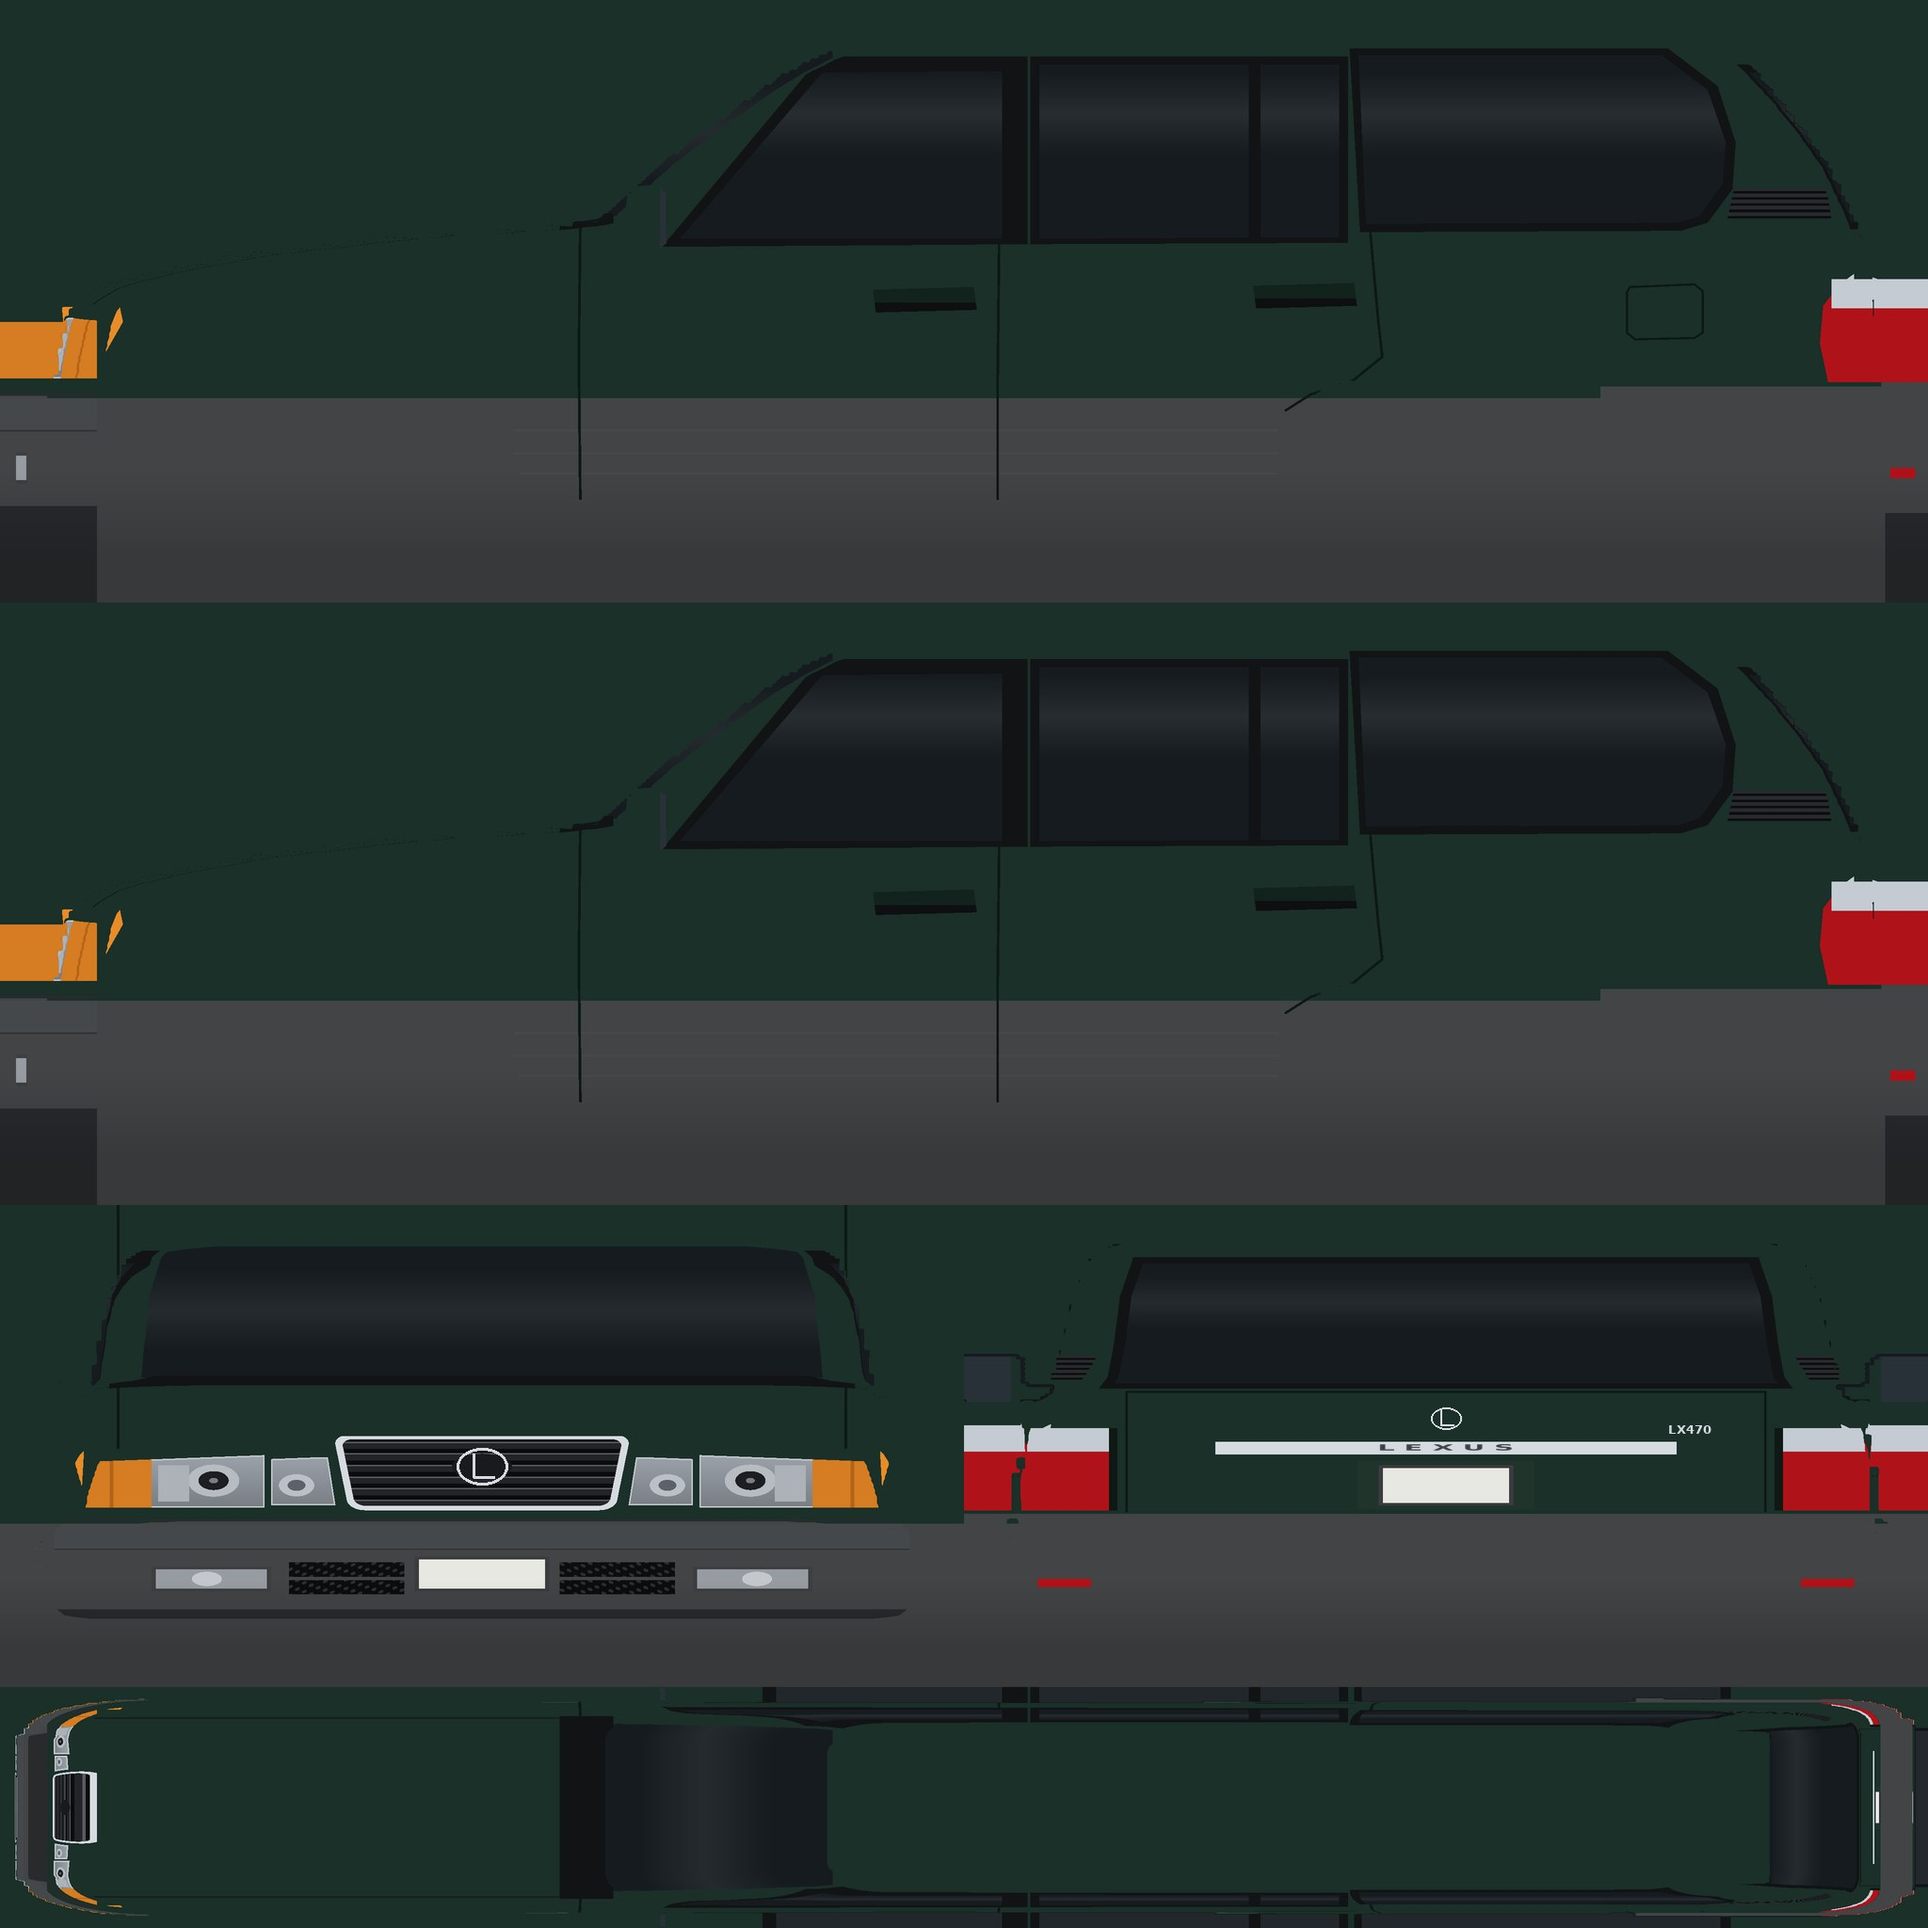
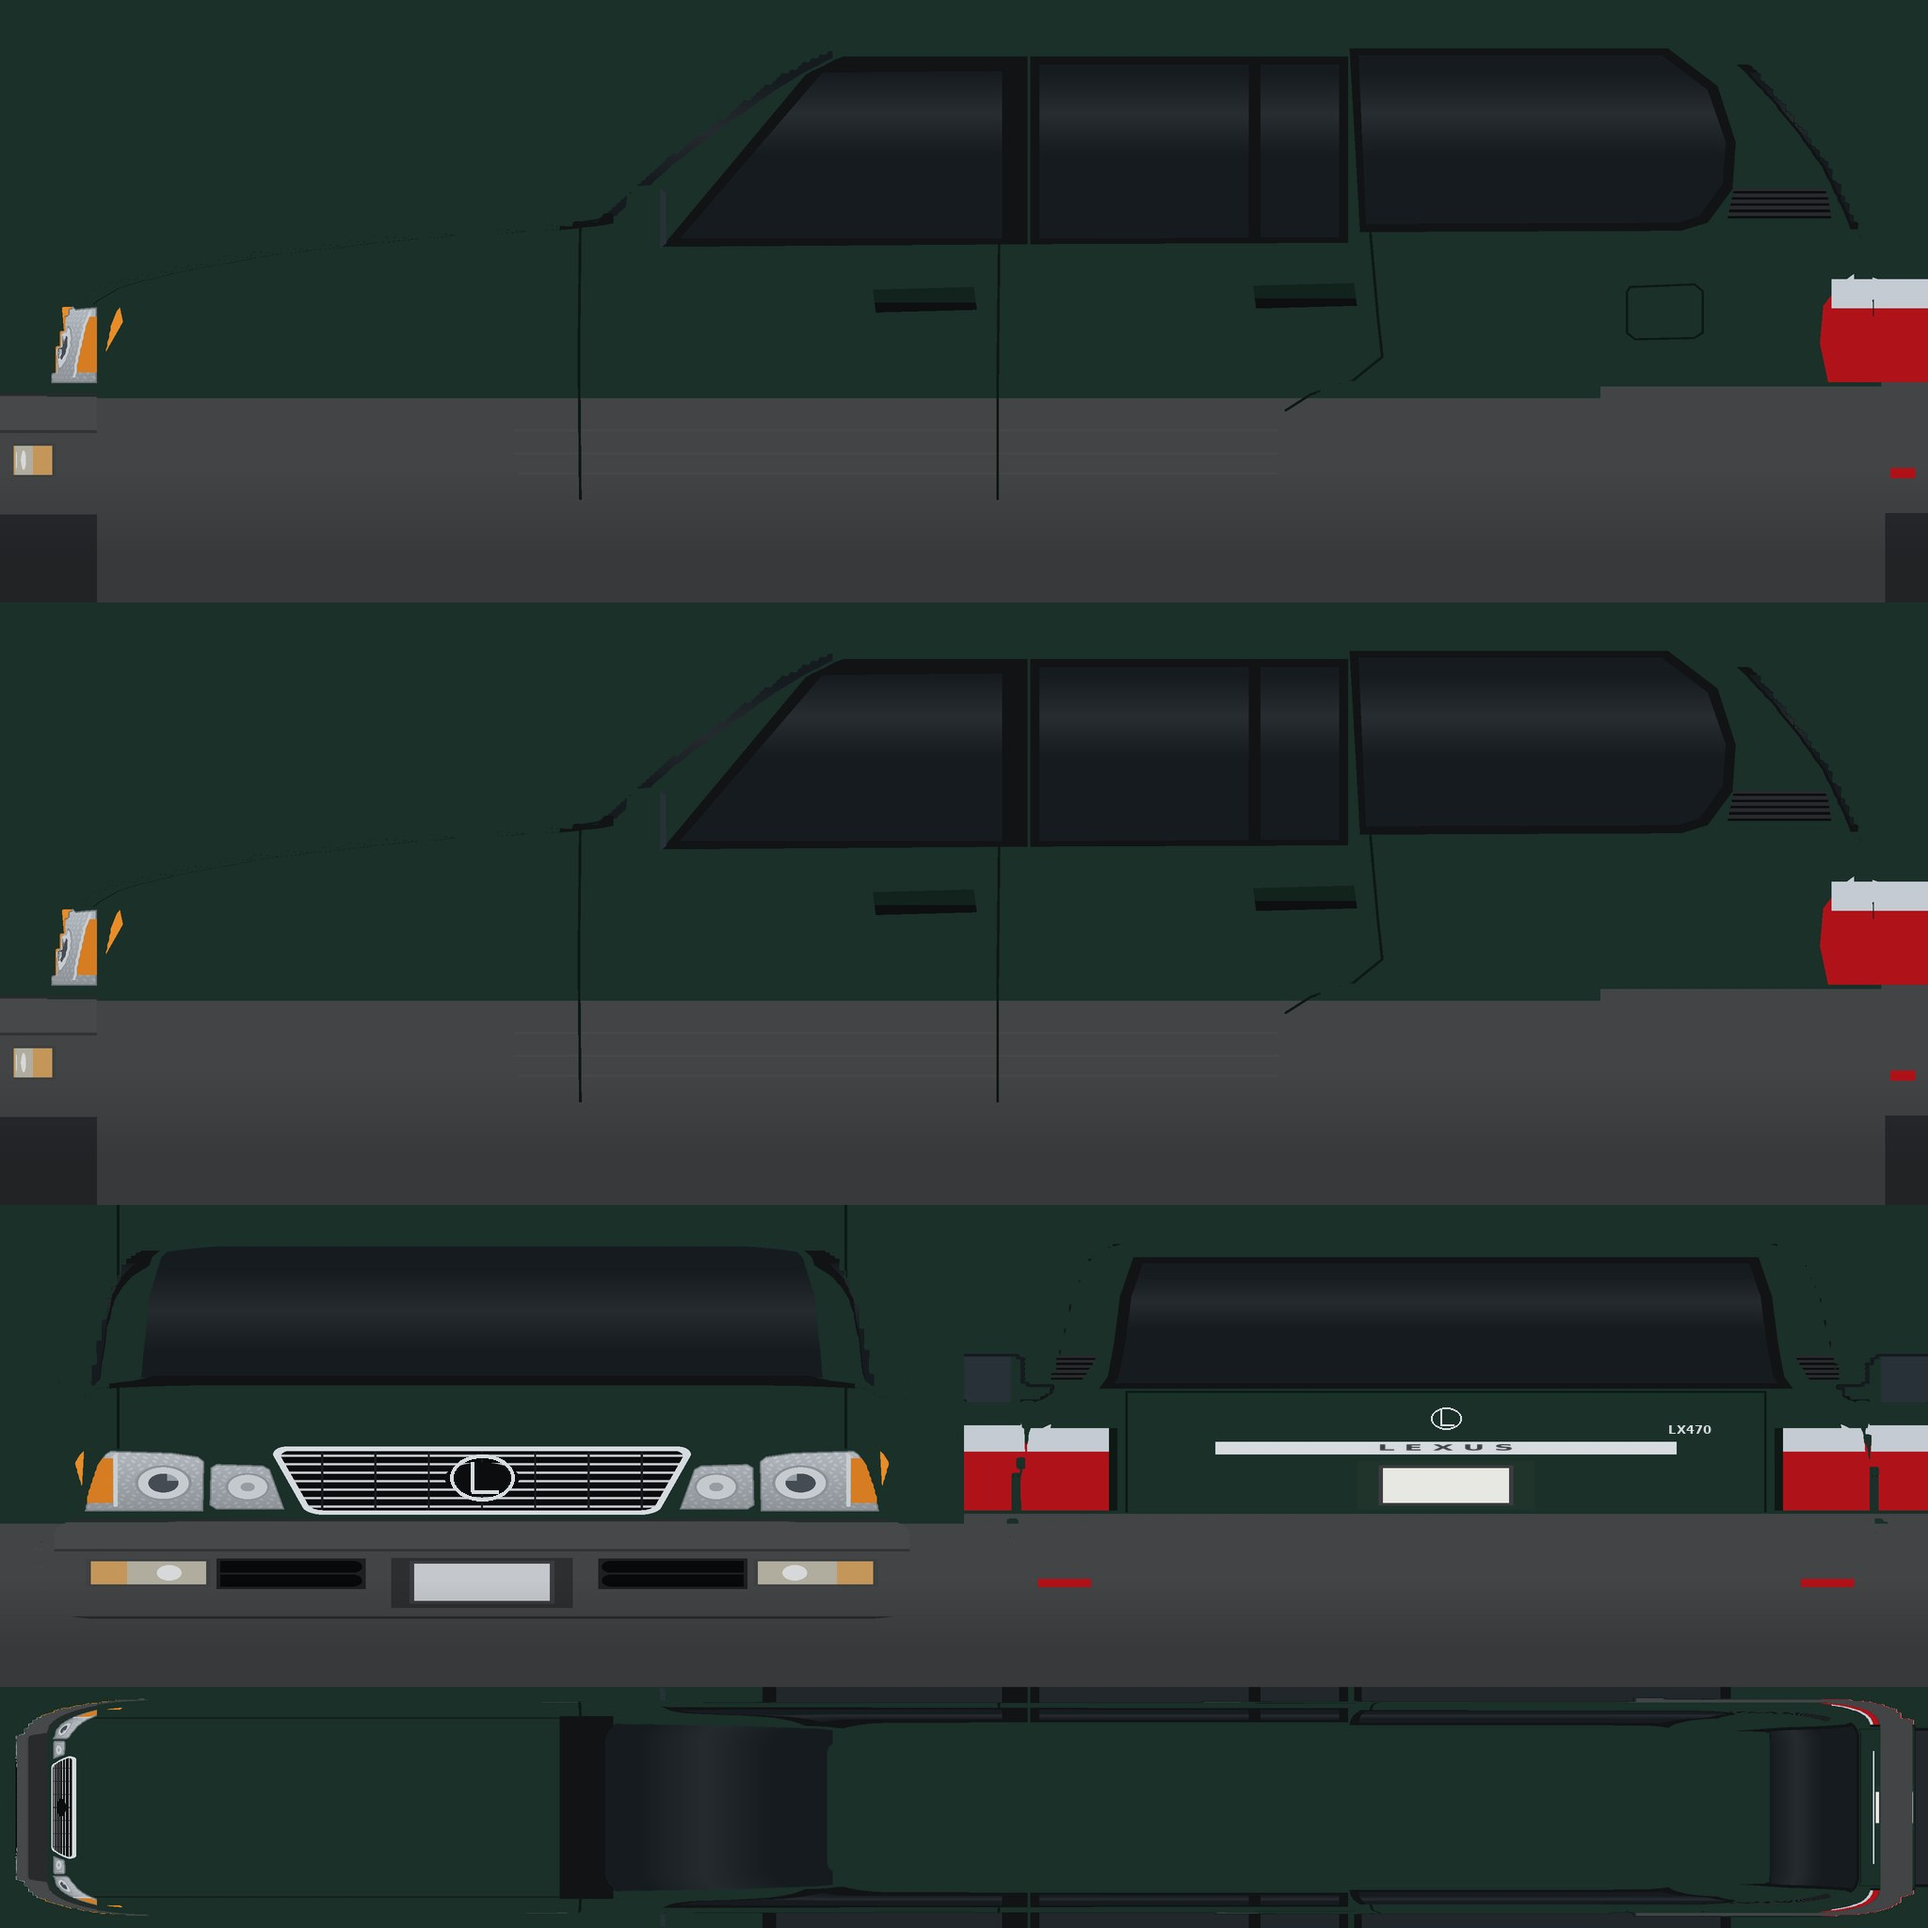
LX 470 front measured from straight-on photos
Wide trapezoid grille (0.96 m across the top, 0.79 m at the bottom) with seven thin chrome
bars and a large L; inner lamps angled along the grille edge, outer lamps with projector
and amber corner; bumper intakes, fogs and plate recess placed from the photo.

Claude-Session: https://claude.ai/code/session_019cbq4o5ypnTkttvXmVwyLx

diff --git a/rider3d.js b/rider3d.js
@@ -27,7 +27,7 @@
   // dims: front/rear axle z, wheel-centre |x| and tyre radius in metres; rim: wheel colour.
   const VEHICLES = {
     "4runner": { ver:"3", fa:1.5165, ra:-1.2775, wx:.80,  r:.4015, rim:0xc9ced4, rimShine:110 },   // 2012 4Runner SR5, BFG KO3 265/70R17
-    "lx470":   { ver:"2", fa:1.6103, ra:-1.2347, wx:.813, r:.3957, rim:0x5c4229, rimShine:12 },    // 1998 LX 470, BFG KO2 275/70R16, bronze wheels
+    "lx470":   { ver:"3", fa:1.6103, ra:-1.2347, wx:.813, r:.3957, rim:0x5c4229, rimShine:12 },    // 1998 LX 470, BFG KO2 275/70R16, bronze wheels
   };
   const vehicleP = {};
   function loadVehicle(name){

diff --git a/scripts/lx470/build.py b/scripts/lx470/build.py
@@ -299,67 +299,83 @@ def shade(x, y, z, fuel_door):
     put(sw & (z < Z_TAIL + 0.15) & inpoly(F["tail_clear"], z, y), LENS, 0.9)
     put(sw & (z > Z_NOSE - 0.2) & inpoly(F["turn"], z, y), AMBER, 0.9)
 
-    # ---- front face (LX 470), laid out from a front three-quarter photo:
-    #      tall chrome-ringed grille with thick black horizontal bars and the Lexus L high in the middle;
-    #      each side a small inner lamp and a big outer lamp (projector + amber corner) that sit lower than the grille top;
-    #      a body-colour strip, then the gray bumper: crease, centre plate, slotted intakes either side, rectangular fog lamps.
+    # ---- front face (LX 470), measured from a straight-on front photo (scaled by the 76 in body width):
+    #      a wide trapezoid grille (much wider at the top) with a chrome ring, seven thin chrome bars on black and a big
+    #      Lexus L; each side a small inner lamp angled along the grille edge and a big outer lamp (projector + amber
+    #      corner); a body-colour strip, then the gray bumper with plate recess, two-slot intakes and rectangular fog lamps.
     face = z > Z_NOSE - 0.10
-    GT, GB = 1.100, 0.828
-    gw = lambda yy: 0.300 + 0.035 * np.clip((yy - GB) / (GT - GB), 0, 1)
-    def rrect_in(halfw, y0, y1, r, pad=0.0):
-        """Inside a rounded rectangle |x| < halfw(y), y0 < y < y1, corner radius r, shrunk by pad."""
-        hw_ = halfw(y) - pad; a0, a1 = y0 + pad, y1 - pad
+    def poly(pts):
+        return face & Path(pts).contains_points(np.stack([ax.ravel(), y.ravel()], -1)).reshape(x.shape)
+    GT, GB = 1.058, 0.812
+    gw = lambda yy: 0.395 + 0.087 * np.clip((yy - GB) / (GT - GB), 0, 1)        # half width: 0.395 at the bottom, 0.482 at the top
+    def trap_in(pad, r_top, r_bot):
+        a0, a1 = GB + pad, GT - pad; hw_ = gw(y) - pad
         inside = (ax < hw_) & (y > a0) & (y < a1)
-        cx = hw_ - r; cyl = a0 + r; cyh = a1 - r
-        corner = (ax > cx) & ((y < cyl) | (y > cyh))
-        dy = np.where(y < cyl, y - cyl, y - cyh)
-        return inside & ~(corner & (np.hypot(ax - cx, dy) > r))
-    g_outer = face & rrect_in(gw, GB, GT, 0.035)
-    g_inner = face & rrect_in(gw, GB, GT, 0.025, pad=0.016)
-    put(g_outer, CHROME, 1.0)
-    put(g_inner, (10, 11, 12), 0.3)
-    bars = g_inner & (np.mod((y - GB - 0.012) / 0.042, 1.0) < 0.62)
-    put(bars, (34, 36, 39), 0.75)
-    put(bars & (np.mod((y - GB - 0.012) / 0.042, 1.0) > 0.50), (88, 92, 98), 0.95)     # lit top edge of each bar
-    # emblem plate behind the L (drawn on top in add_badges)
-    put(face & (np.hypot(ax / 0.068, (y - 0.985) / 0.047) < 1.0), (24, 26, 28), 0.8)
+        cut = np.zeros_like(inside)
+        for cy, r in ((a1 - r_top, r_top), (a0 + r_bot, r_bot)):
+            cx = gw(cy) - pad - r
+            zone = (ax > cx) & ((y > cy) if cy > (a0 + a1) / 2 else (y < cy))
+            cut |= zone & (np.hypot(ax - cx, y - cy) > r)
+        return face & inside & ~cut
+    put(trap_in(0.0, 0.03, 0.055), CHROME, 1.0)
+    g_in = trap_in(0.016, 0.02, 0.04)
+    put(g_in, (10, 11, 12), 0.3)
+    t = np.mod((y - GB - 0.026) / 0.0305, 1.0)
+    bars = g_in & (t < 0.27) & (y > GB + 0.02) & (y < GT - 0.02)
+    put(bars, (176, 181, 187), 1.0)
+    put(bars & (t < 0.1), (222, 226, 230), 1.0)                                    # bright top edge of each bar
+    put(g_in & (np.abs(np.mod(ax + 0.06, 0.12) - 0.06) < 0.0025), (26, 27, 29), 0.3)   # faint vertical dividers
+    put(face & (np.hypot(ax / 0.084, (y - 0.944) / 0.056) < 1.0), (12, 13, 14), 0.4)    # clear the bars behind the emblem
 
-    # lamps: top edge drops toward the outside; both lamps stop below the grille top
-    lamp_top = lambda xx: 1.035 - 0.035 * np.clip((xx - 0.36) / 0.58, 0, 1)
-    LB = 0.838
-    inner_l = face & (ax > gw(y) + 0.022 + 0.03 * (1.04 - y)) & (ax < 0.475) & (y > LB + 0.008) & (y < lamp_top(ax) - 0.015)
-    outer_l = face & (ax > 0.49) & (ax < W - 0.004) & (y > LB) & (y < lamp_top(ax))
+    # inner lamp: rounded quadrilateral whose inner edge runs parallel to the grille side
+    inner_l = poly([(0.445, 0.830), (0.598, 0.830), (0.614, 0.846), (0.612, 0.982), (0.598, 0.995), (0.494, 0.990), (0.478, 0.976)])
+    # outer lamp: taller, top edge rising toward the outside, wraps the corner
+    outer_l = poly([(0.628, 0.824), (0.900, 0.824), (0.918, 0.842), (0.922, 1.030), (0.902, 1.046), (0.700, 1.036), (0.640, 1.022), (0.626, 1.004)])
     for lm in (inner_l, outer_l):
-        put(lm, (150, 157, 164), 0.7)                                                # clear lens over chrome
-        col[lm] *= np.clip(0.80 + 0.25 * (y[lm] - LB) / 0.2, 0.8, 1.05)[:, None]
-        put(lm & ~(np.roll(lm, 3, 0) & np.roll(lm, -3, 0) & np.roll(lm, 3, 1) & np.roll(lm, -3, 1)), (196, 201, 206), 0.9)
-    put(inner_l & (np.hypot(ax - 0.418, y - 0.918) < 0.040), (186, 192, 198), 0.8)   # inner reflector
-    put(inner_l & (np.hypot(ax - 0.418, y - 0.918) < 0.020), (92, 98, 104), 0.8)
-    d = np.hypot(ax - 0.605, y - 0.935)
-    put(outer_l & (d < 0.058), (182, 188, 194), 0.8)                                  # projector bowl
-    put(outer_l & (d < 0.034), (28, 30, 34), 0.9)                                     # projector lens
-    put(outer_l & (d < 0.010), (120, 126, 132), 0.9)
-    put(outer_l & (ax > 0.66) & (ax < 0.73) & (y > 0.86) & (y < 0.99), (172, 178, 184), 0.8)   # low reflector
-    amber = outer_l & (ax > 0.745)
+        put(lm, (168, 174, 180), 0.75)                                             # clear lens over a chrome reflector
+        facets = lm & (np.sin(ax * 260 + np.sin(y * 90) * 2.0) * np.sin(y * 230) > 0.45)
+        col[facets] *= 1.10
+        col[lm] *= np.clip(0.84 + 0.20 * (y[lm] - 0.83) / 0.2, 0.84, 1.04)[:, None]
+        edge = lm & ~(np.roll(lm, 3, 0) & np.roll(lm, -3, 0) & np.roll(lm, 3, 1) & np.roll(lm, -3, 1))
+        put(edge, (112, 117, 122), 0.6)                                            # housing edge
+    d = np.hypot(ax - 0.528, y - 0.912)
+    put(inner_l & (d < 0.050), (196, 201, 206), 0.85)                              # inner lamp reflector
+    put(inner_l & (d < 0.050) & (d > 0.044), (140, 146, 152), 0.85)
+    put(inner_l & (d < 0.016), (150, 156, 162), 0.85)
+    d = np.hypot(ax - 0.718, y - 0.926)
+    put(outer_l & (d < 0.064), (198, 203, 208), 0.85)                              # projector bowl
+    put(outer_l & (d < 0.064) & (d > 0.057), (140, 146, 152), 0.85)
+    put(outer_l & (d < 0.034), (70, 76, 84), 0.95)                                 # projector lens
+    put(outer_l & (d < 0.034) & (ax - 0.718 < -0.008) & (y - 0.926 > 0.008), (150, 158, 166), 0.95)   # glint
+    put(outer_l & (np.abs(ax - 0.826) < 0.005) & (y > 0.84) & (y < 1.03), (200, 205, 210), 0.95)   # divider
+    amber = outer_l & (ax > 0.832) & (y > 0.855) & (y < 1.015)
     put(amber, (214, 124, 34), 0.8)
-    put(amber & (np.abs(ax - 0.835) < 0.004), (180, 100, 25), 0.6)                    # divider in the amber lens
-    # bumper: top edge just under the lamps, a crease, plate in the centre, two-slot intakes, fog lamps
+
+    # bumper
     bump = face & (y < FBUMP_TOP + 0.005)
     put(face & (np.abs(y - FBUMP_TOP) < 0.004), (40, 42, 44), 0.3)
-    put(bump & (np.abs(y - 0.688) < 0.004), (50, 52, 54), 0.3)                         # crease
-    put(bump & (y > 0.69) & (y < 0.78), tuple(int(c * 1.06) for c in CLAD), 0.55)      # crease catches the light
-    plate = bump & (ax < 0.152) & (y > 0.535) & (y < 0.66)
-    put(plate, (232, 232, 226), 0.4)
-    put(plate & ((ax > 0.142) | (y < 0.545) | (y > 0.65)), (60, 60, 64), 0.4)
-    slots = bump & (ax > 0.175) & (ax < 0.435) & (((y > 0.588) & (y < 0.64)) | ((y > 0.525) & (y < 0.575)))
-    put(slots, (12, 13, 14), 0.15)
-    put(slots & ((np.sin(ax * 200) * np.sin(y * 200 + ax * 90)) > 0.45), (44, 46, 49), 0.4)
-    fog = bump & (ax > 0.475) & (ax < 0.745) & (y > 0.535) & (y < 0.625)
-    put(fog, (60, 62, 64), 0.4)
-    fogl = bump & (ax > 0.485) & (ax < 0.735) & (y > 0.545) & (y < 0.615)
-    put(fogl, (150, 156, 162), 0.8)
-    put(fogl & (np.hypot((ax - 0.62) / 1.3, y - 0.58) < 0.026), (196, 200, 205), 0.9)
-    put(bump & (y < 0.47), TRIM, 0.25)
+    put(bump & (y > 0.69) & (y < 0.785), tuple(int(c * 1.07) for c in CLAD), 0.55)     # upper bulge catches the light
+    put(bump & (np.abs(y - 0.684) < 0.004), (48, 50, 52), 0.3)
+    put(bump & (ax < 0.205) & (y > 0.475) & (y < 0.655), (44, 46, 48), 0.3)            # plate recess
+    plate = bump & (ax < 0.163) & (y > 0.49) & (y < 0.645)
+    put(plate, (196, 200, 204), 0.4)
+    put(plate & ((ax > 0.153) | (y < 0.50) | (y > 0.635)), (60, 60, 64), 0.4)
+    def slot(y0, y1):
+        r = (y1 - y0) / 2; cy = (y0 + y1) / 2
+        core = (ax > 0.27 + r) & (ax < 0.59) & (y > y0) & (y < y1)
+        cap = np.hypot(ax - (0.27 + r), y - cy) < r
+        return bump & (core | cap)
+    s1, s2 = slot(0.602, 0.646), slot(0.552, 0.596)
+    put(bump & (ax > 0.262) & (ax < 0.598) & (y > 0.544) & (y < 0.654), (30, 31, 33), 0.25)   # intake surround
+    for sl in (s1, s2):
+        put(sl, (8, 9, 10), 0.15)
+    fog = bump & (ax > 0.612) & (ax < 0.892) & (y > 0.552) & (y < 0.652)
+    put(fog, (62, 64, 66), 0.4)
+    fogl = bump & (ax > 0.622) & (ax < 0.882) & (y > 0.560) & (y < 0.644)
+    put(fogl, (176, 172, 158), 0.85)                                                 # clear lens, slightly warm
+    put(fogl & (np.hypot(ax - 0.705, y - 0.602) < 0.028), (214, 216, 218), 0.9)        # bulb
+    put(fogl & (ax > 0.80), (196, 150, 90), 0.85)                                     # amber-tinted outer end
+    put(bump & (y < 0.445), TRIM, 0.25)
 
     # ---- rear face: liftgate glass over a lower tailgate, LEXUS garnish, corner lamps, gray bumper
     back = z < Z_TAIL + 0.12
@@ -468,7 +484,7 @@ def add_badges(tex):
     def lexus_l(cx, cy, sc):  # the Lexus "L" in an oval
         d.ellipse([cx - sc, cy - 0.72 * sc, cx + sc, cy + 0.72 * sc], outline=CHROME, width=max(1, int(0.14 * sc)))
         d.line([(cx - 0.32 * sc, cy - 0.5 * sc), (cx - 0.32 * sc, cy + 0.42 * sc), (cx + 0.5 * sc, cy + 0.42 * sc)], fill=CHROME, width=max(1, int(0.14 * sc)))
-    ex, ey = to_px("front", 0.0, 0.985); lexus_l(ex, ey, 27)
+    ex, ey = to_px("front", 0.0, 0.944); lexus_l(ex, ey, 34)
     ex, ey = to_px("rear", 0.0, 1.16); lexus_l(ex, ey, 16)
     sx, sy = to_px("rear", -0.55, 1.12)
     d.text((sx, sy), "LX470", font=ImageFont.truetype(FONT_B, 13), fill=CHROME, anchor="mm")
